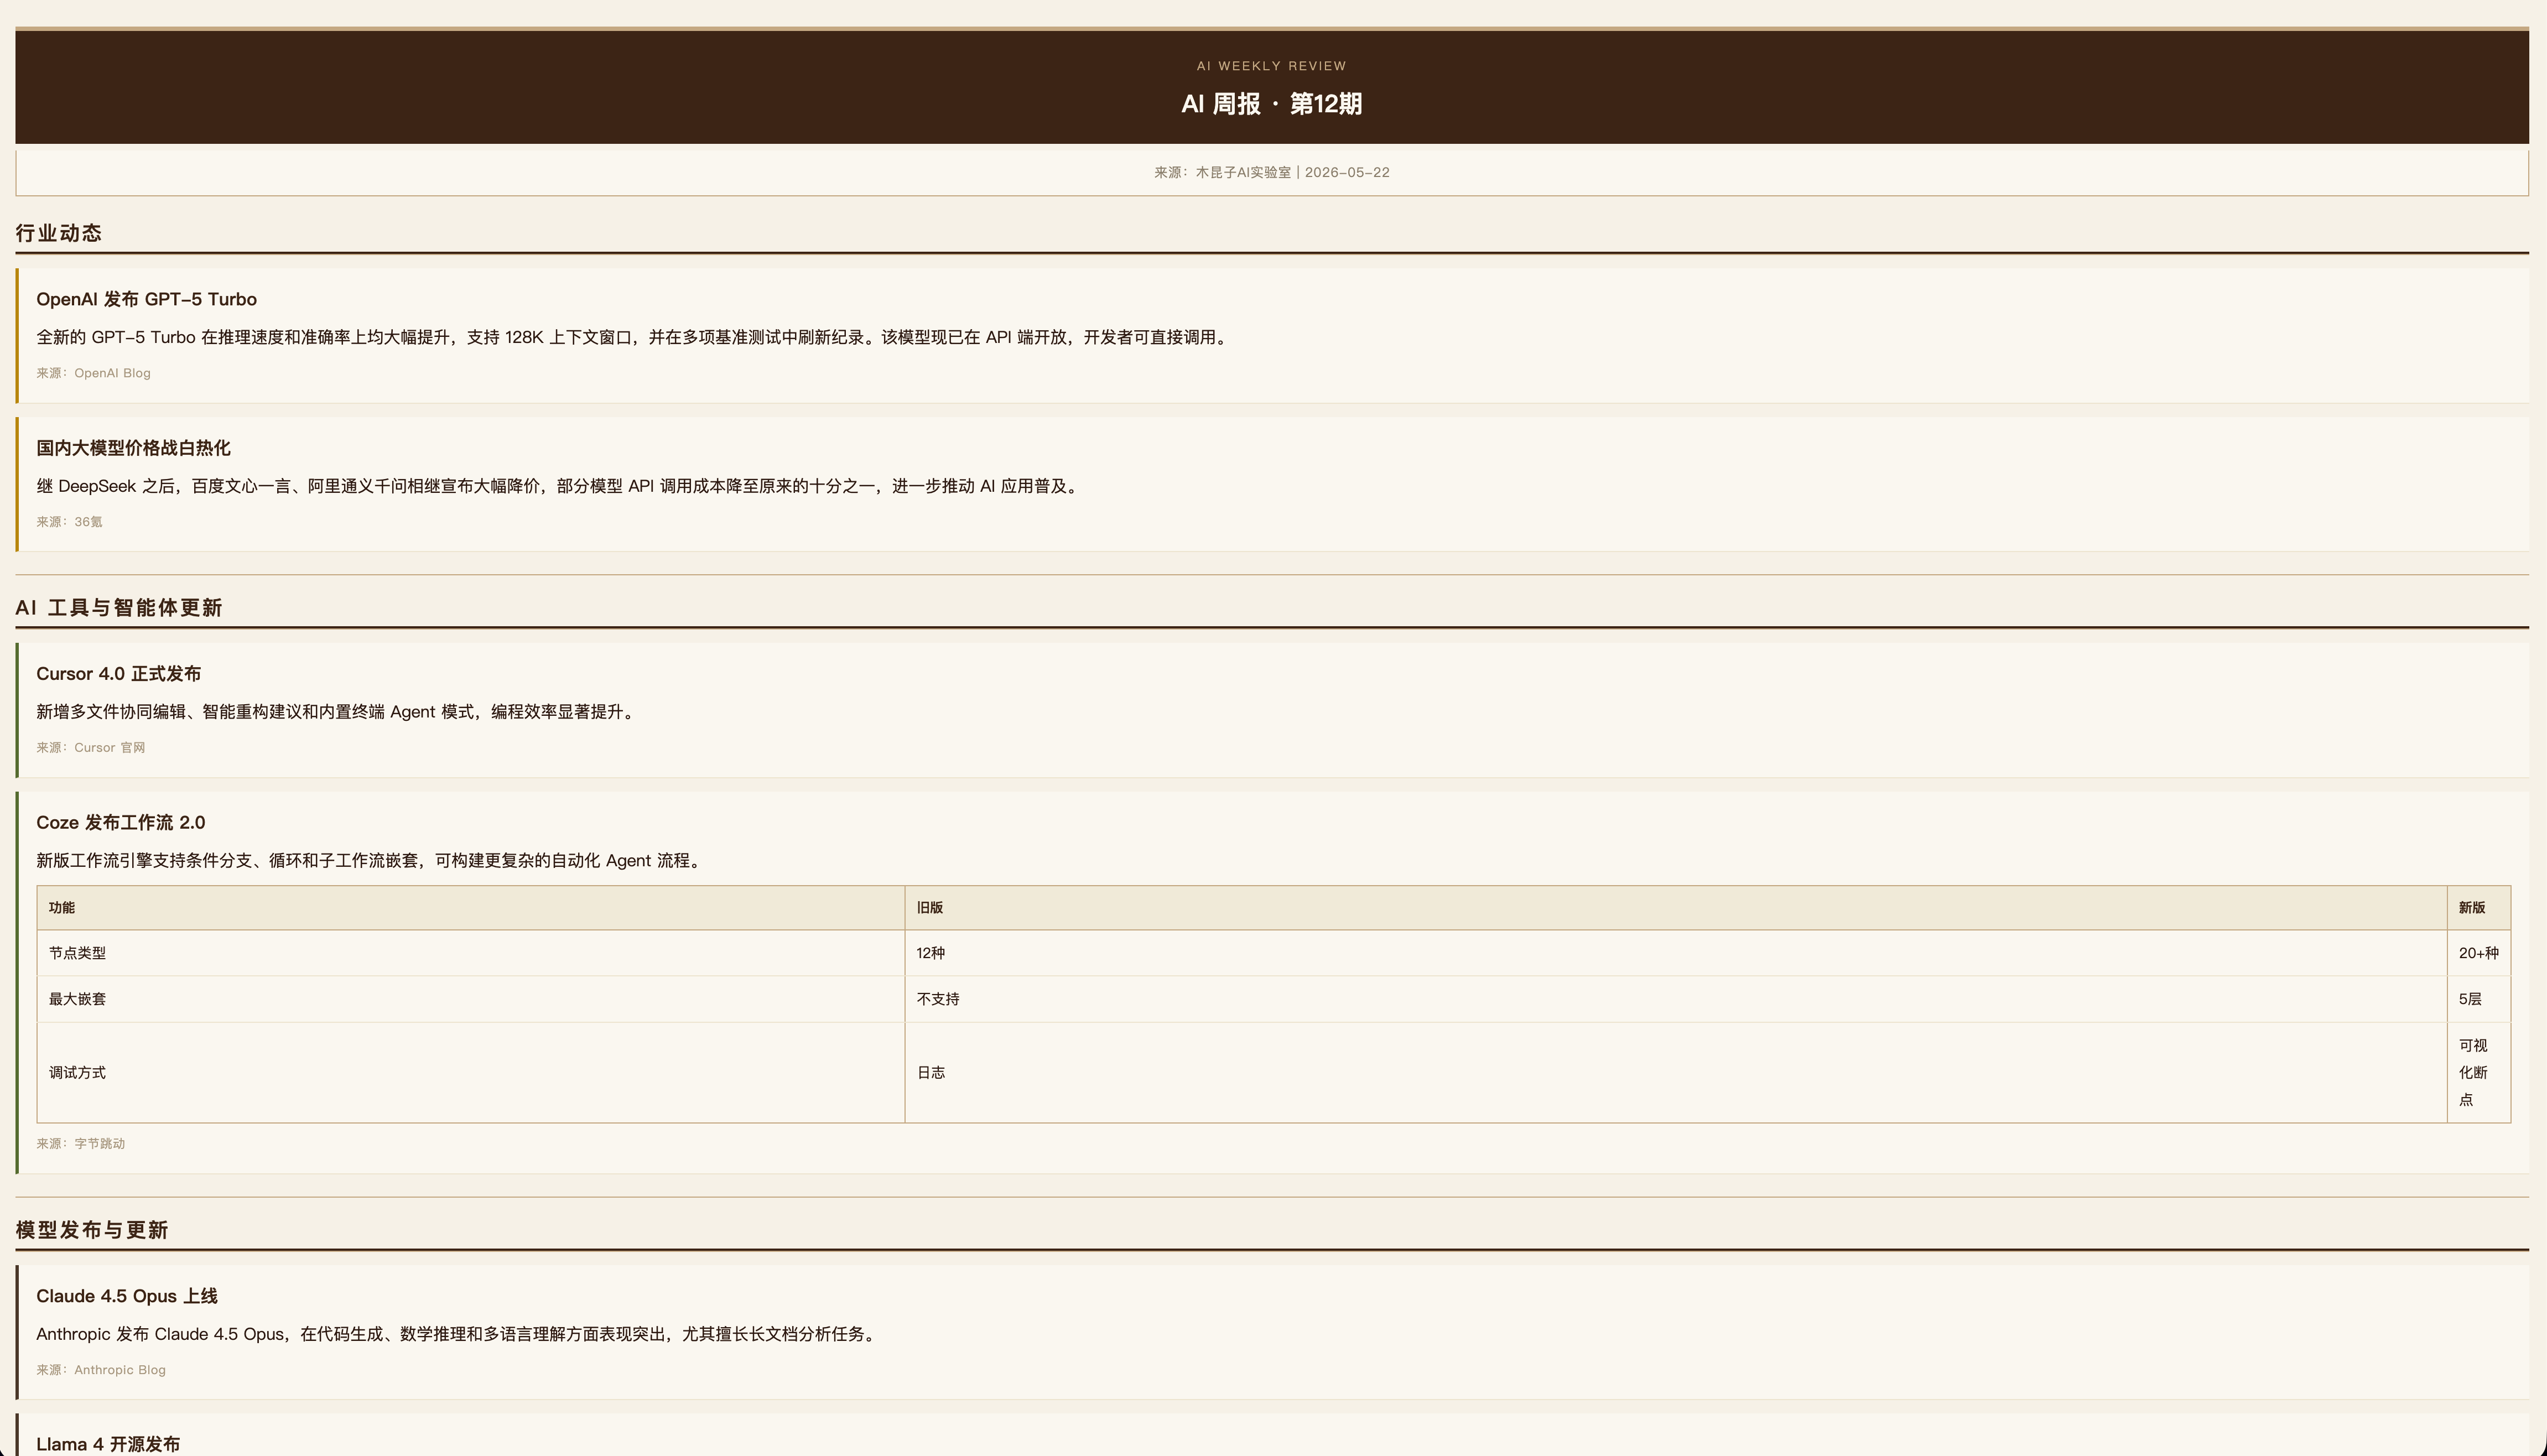
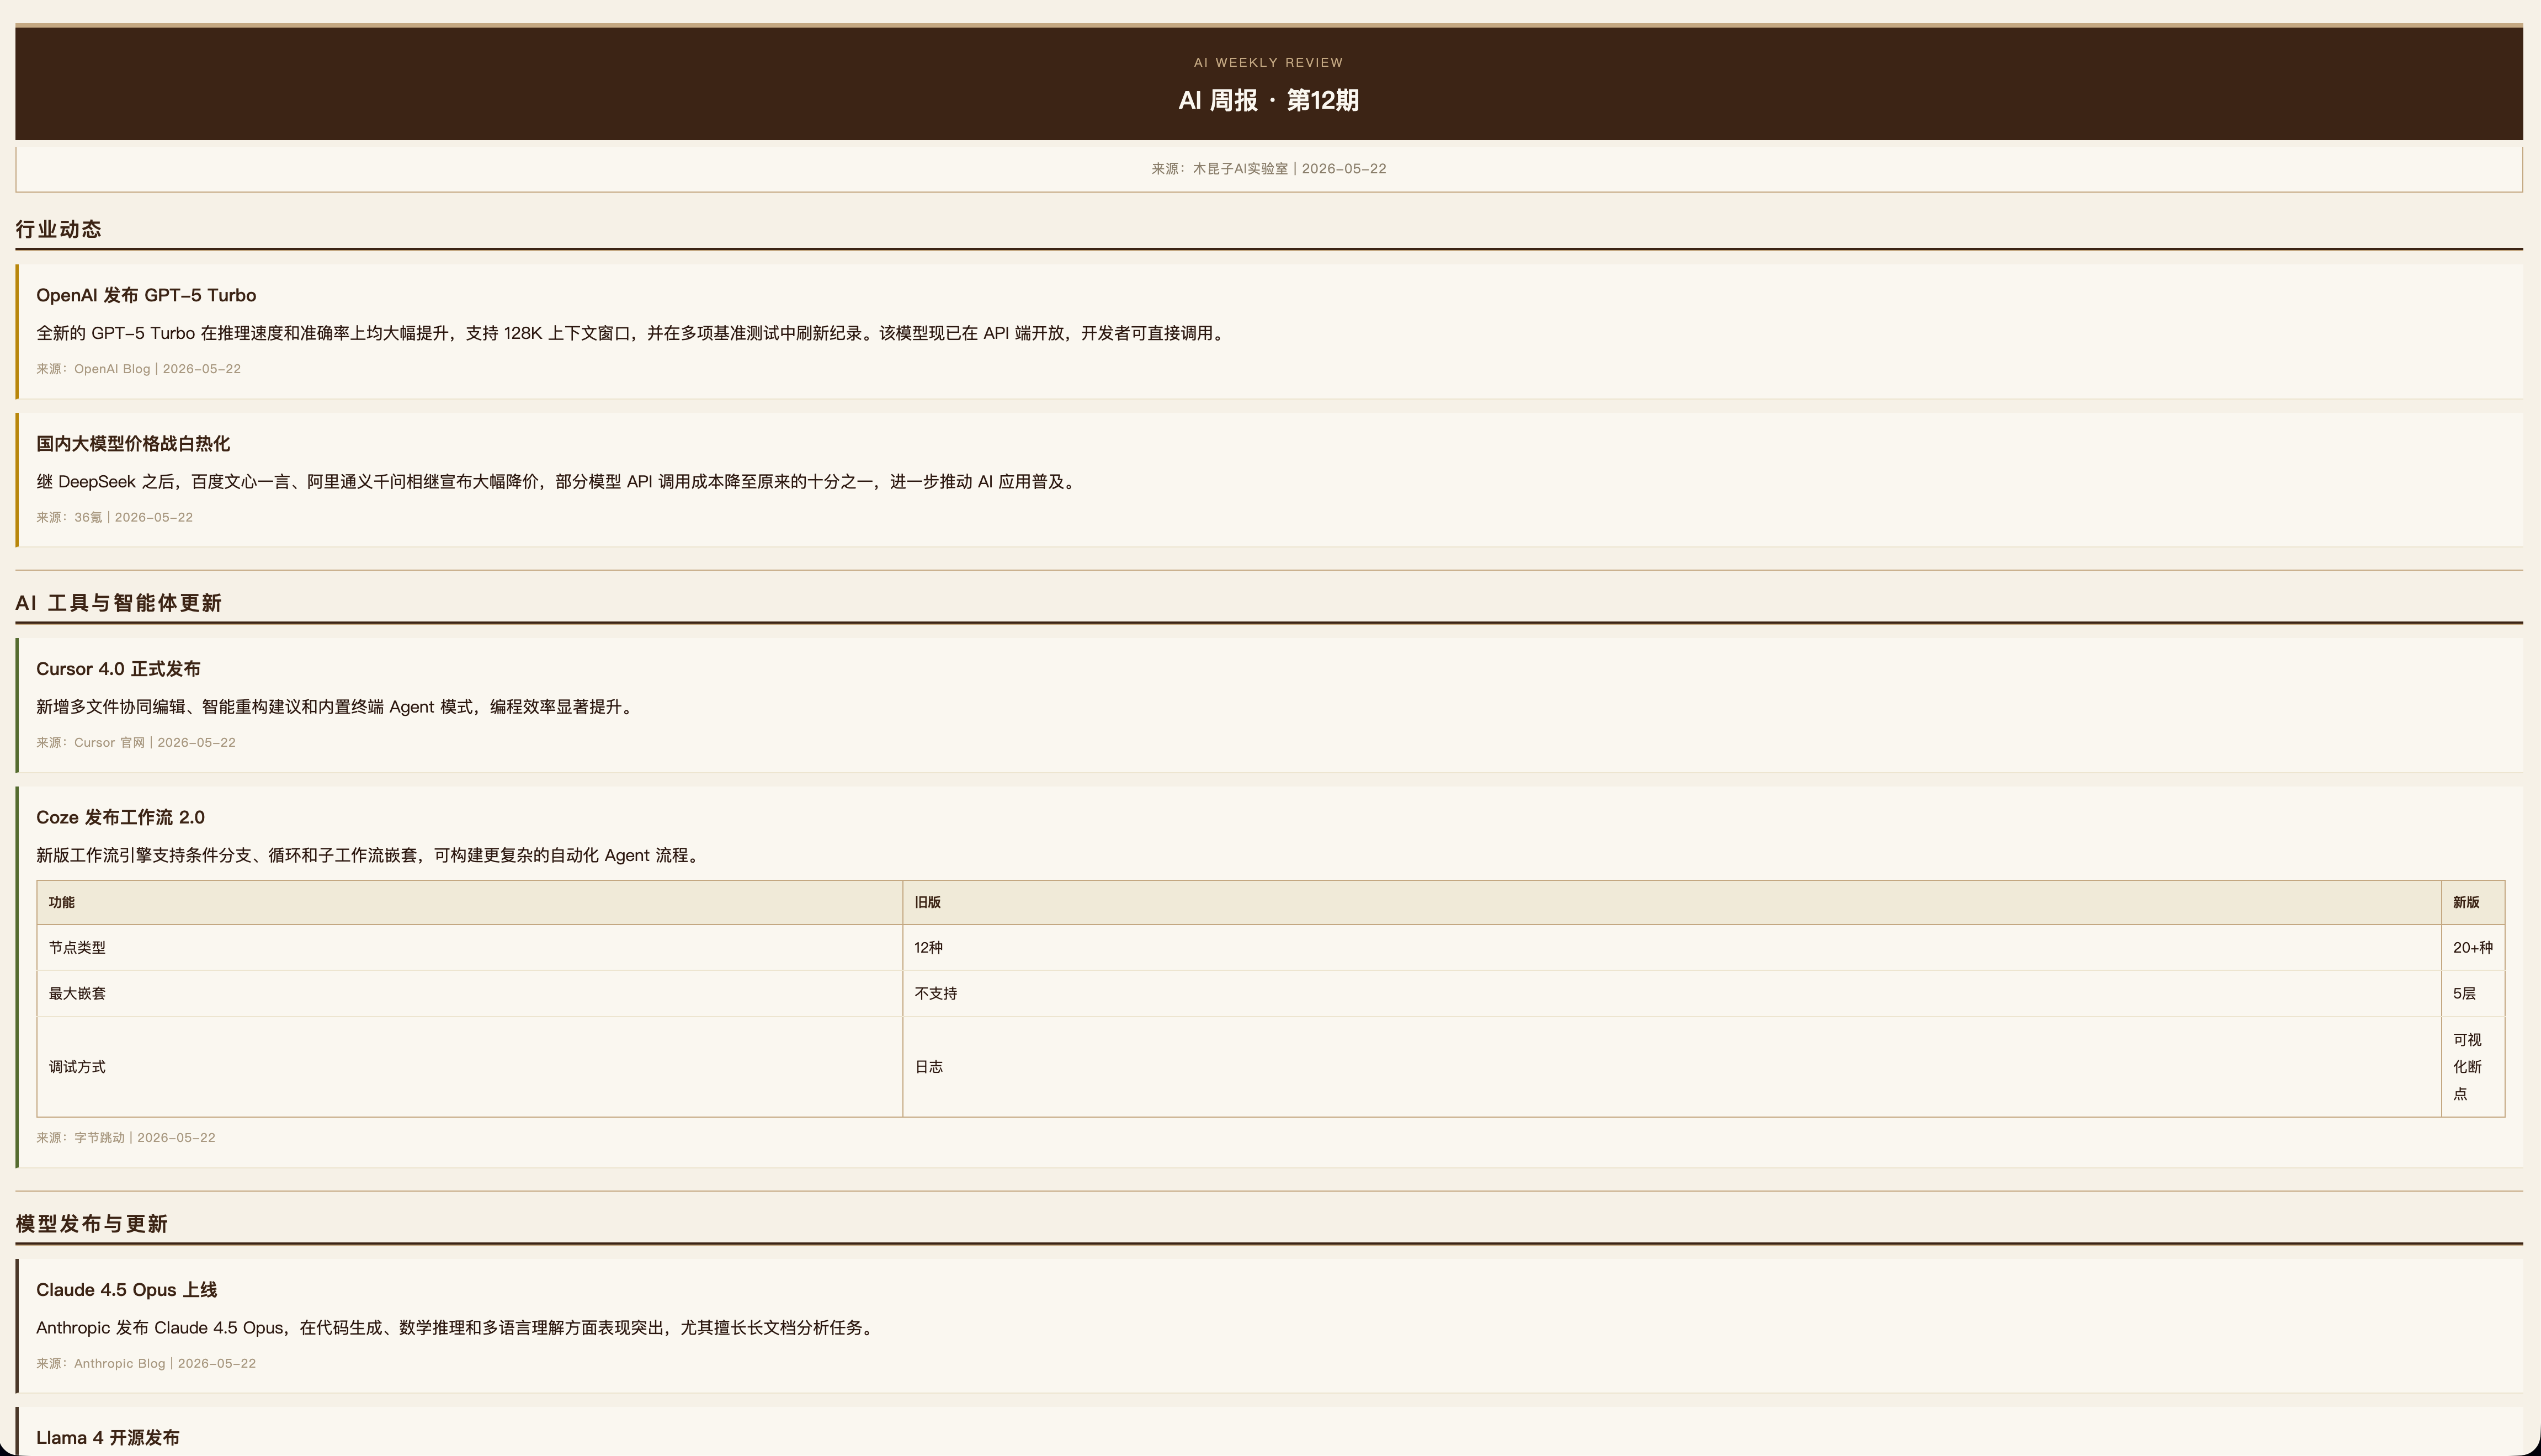
docs: update README and news screenshot (#1)

diff --git a/README.md b/README.md
@@ -246,7 +246,7 @@ rm -rf /tmp/mukun_md_push
 
 **结构约定**：
 
-```markdown
+````markdown
 # 技术实践：使用 Calcite 实现 SQL 行级权限控制
 
 ## 背景
@@ -276,7 +276,8 @@ SqlNode node = parser.parseQuery();
 ```
 
 上述代码完成 SQL 的初始解析。
-```
+
+````
 
 #### 模式差异速查
 